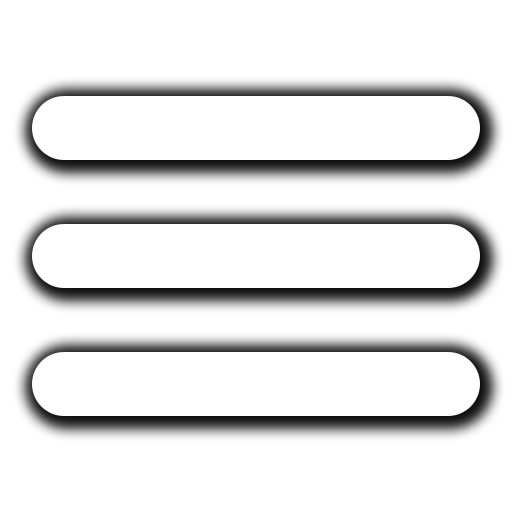
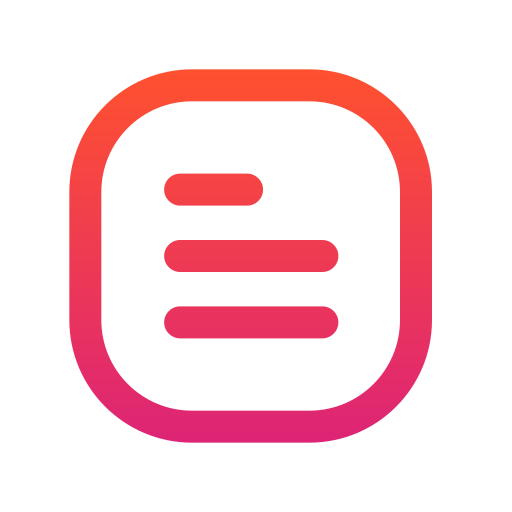
Creacion de menu hamnburguesa

diff --git a/registro.html b/registro.html
@@ -10,12 +10,17 @@
   <!-- CSS only -->
   <link href="https://cdn.jsdelivr.net/npm/bootstrap@5.2.0/dist/css/bootstrap.min.css" rel="stylesheet"
     integrity="sha384-gH2yIJqKdNHPEq0n4Mqa/HGKIhSkIHeL5AyhkYV8i59U5AR6csBvApHHNl/vI1Bx" crossorigin="anonymous" />
+  <script src="./asset/main.js"></script>
+
   <title>Registro | Ingreso </title>
 </head>
 
 <body>
   <header id="header">
     <nav id="nav-menu">
+      <button id="nav-menu-responsive-closed" >
+        <img src="./asset/img/menu-icon.png" alt="botonHamburguesa" width="100px">
+      </button>
       <a href="./index.html">
         <p>Inicio</p>
       </a>
@@ -34,6 +39,9 @@
     </nav>
   </header>
   <main id="registro">
+    <button id="nav-menu-responsive" >
+      <img src="./asset/img/menu-icon.png" alt="botonHamburguesa" width="100px">
+    </button>
     <h1 class="titulo-formulario">Registro</h1>
     <section class="row">
       <form class="col-8 position-relative formulario">
@@ -46,8 +54,8 @@
         <label for="password-registro" class="form-label">Contraseña</label>
         <input type="password" class="form-control mb-4" id="password-registro" placeholder="*******">      
         <label class="form-label">¿Le gustaría recibir novedades por correo?</label>
-        <p class="form-label"><input name="checkbox" type="checkbox" value="SI" checked> SI</p>
-        <p class="form-label"><input name="checkbox" type="checkbox" value="NO" > NO</p>
+        <p class="form-label"><input name="radio" type="radio" value="SI" checked> SI</p>
+        <p class="form-label"><input name="radio" type="radio" value="NO" > NO</p>
         
         <button class="enviar" id="boton-registro" type="submit">Enviar</button>
       </form>

diff --git a/portafolio.html b/portafolio.html
@@ -9,12 +9,17 @@
   <!-- CSS only -->
   <link href="https://cdn.jsdelivr.net/npm/bootstrap@5.2.0/dist/css/bootstrap.min.css" rel="stylesheet"
     integrity="sha384-gH2yIJqKdNHPEq0n4Mqa/HGKIhSkIHeL5AyhkYV8i59U5AR6csBvApHHNl/vI1Bx" crossorigin="anonymous" />
+  <script src="./asset/main.js"></script>
+
   <title>Proyectos | Leonardo Utreras</title>
 </head>
 
 <body>
   <header id="header">
     <nav id="nav-menu">
+      <button id="nav-menu-responsive-closed" >
+        <img src="./asset/img/menu-icon.png" alt="botonHamburguesa" width="100px">
+      </button>
       <a href="./index.html">
         <p>Inicio</p>
       </a>
@@ -32,7 +37,10 @@
       </a>
     </nav>
   </header>
-  <div id="portafolio" class="position-relative min-vh-100">
+  <main id="portafolio" class="position-relative min-vh-100">
+    <button id="nav-menu-responsive" >
+      <img src="./asset/img/menu-icon.png" alt="botonHamburguesa" width="100px">
+    </button>
     <h1 class="titulo-portafolio">Portafolio</h1>
     <div id="carrusel">
       <div id="carouselExampleCaptions" class="carousel slide" data-bs-ride="false">
@@ -62,7 +70,7 @@
         </button>
       </div>
     </div>
-  </div>
+  </main>
   <script src="https://cdn.jsdelivr.net/npm/bootstrap@5.2.0/dist/js/bootstrap.bundle.min.js"
     integrity="sha384-A3rJD856KowSb7dwlZdYEkO39Gagi7vIsF0jrRAoQmDKKtQBHUuLZ9AsSv4jD4Xa"
     crossorigin="anonymous"></script>

diff --git a/resumen.html b/resumen.html
@@ -12,11 +12,16 @@
       integrity="sha384-gH2yIJqKdNHPEq0n4Mqa/HGKIhSkIHeL5AyhkYV8i59U5AR6csBvApHHNl/vI1Bx"
       crossorigin="anonymous"
     />
+    <script src="./asset/main.js"></script>
+
     <title>Resumen | Leonardo Utreras</title>
 </head>
 <body>
   <header id="header">
     <nav id="nav-menu">
+      <button id="nav-menu-responsive-closed" >
+        <img src="./asset/img/menu-icon.png" alt="botonHamburguesa" width="100px">
+      </button>
       <a href="./index.html">
         <p>Inicio</p>
       </a>
@@ -34,7 +39,10 @@
       </a>
     </nav>
   </header>
-    <div id="resumen" class="position-relative min-vh-100">
+    <main id="resumen" class="position-relative min-vh-100">
+      <button id="nav-menu-responsive" >
+        <img src="./asset/img/menu-icon.png" alt="botonHamburguesa" width="100px">
+      </button>
         <div class="cv">
           <h1 class="titulo-resumen">Resumen</h1>
           <p class="resumen-parrafo">
@@ -99,7 +107,7 @@
             </div>
           </div>
         </div>
-    </div>
+    </main>
     <script
       src="https://cdn.jsdelivr.net/npm/bootstrap@5.2.0/dist/js/bootstrap.bundle.min.js"
       integrity="sha384-A3rJD856KowSb7dwlZdYEkO39Gagi7vIsF0jrRAoQmDKKtQBHUuLZ9AsSv4jD4Xa"

diff --git a/asset/style.css b/asset/style.css
@@ -11,6 +11,9 @@
     --white : #cfcece;
 }
 
+.inactive{
+    display: block;
+}
 
 /* Class Inicio */
 
@@ -180,6 +183,24 @@
     font-size: 25px;
 }
 
+#nav-menu-responsive{
+    position: relative;
+    background-color: transparent;
+    border: none;
+    display: none;
+    justify-content: flex-start;
+
+}
+#nav-menu-responsive-closed{
+
+    position: relative;
+    background-color: transparent;
+    border: none;
+    display: none;
+    justify-content: flex-start;
+
+}
+
 #nav-menu a{
     text-decoration: none;
 }
@@ -265,9 +286,9 @@
         0 0 150px var(--russianViolet)    
     }
     
-    20%, 24%, 55% {        
+    /* 20%, 24%, 55% {        
         text-shadow: none;
-    }    
+    }     */
   }
 
 
@@ -280,7 +301,12 @@
 
 /* Media */
 @media screen and (max-width: 820px) {
+    #nav-menu-responsive{
+        display: flex;
+    }
+   
     #header{
+        display: none;
         position: relative;
         height: auto;
         width: 100%;
@@ -301,6 +327,9 @@
     #contacto, #portafolio, #resumen, #registro{
         width: auto;
         margin: 0;
+    }
+    #carrusel{
+        width: 80%;
     }
     
 }

diff --git a/asset/main.js b/asset/main.js
@@ -1,0 +1,32 @@
+window.addEventListener("DOMContentLoaded",(ev)=>{
+    const menuAbierto = document.getElementById("nav-menu-responsive");
+    const menuCerrado = document.getElementById("nav-menu-responsive-closed");
+
+    menuAbierto.addEventListener("click", menuHamburguesa);
+    menuCerrado.addEventListener("click", menuHamburguesaCerrado);
+
+
+
+})
+
+function menuHamburguesa(){
+    const headerOpen = document.getElementById("header");
+    const botonAbierto = document.getElementById("nav-menu-responsive");
+    const botonCerrado = document.getElementById("nav-menu-responsive-closed");
+
+    headerOpen.style.display="flex";
+    botonAbierto.style.display="none";
+    botonCerrado.style.display="flex";
+    
+}
+
+function menuHamburguesaCerrado(){
+    const headerOpen = document.getElementById("header");
+    const botonAbierto = document.getElementById("nav-menu-responsive");
+    const botonCerrado = document.getElementById("nav-menu-responsive-closed");
+
+    headerOpen.style.display="none";
+    botonAbierto.style.display="flex";
+    botonCerrado.style.display="none";
+    
+}

diff --git a/index.html b/index.html
@@ -12,6 +12,7 @@
       integrity="sha384-gH2yIJqKdNHPEq0n4Mqa/HGKIhSkIHeL5AyhkYV8i59U5AR6csBvApHHNl/vI1Bx"
       crossorigin="anonymous"
     />
+    <script src="./asset/main.js"></script>
     <title>Portafolio | Leonardo Utreras</title>
   </head>
 
@@ -19,14 +20,23 @@
       
     <header id="header">
       <nav id="nav-menu">
+        <button id="nav-menu-responsive-closed" >
+          <img src="./asset/img/menu-icon.png" alt="botonHamburguesa" width="100px">
+        </button>
         <a href="./index.html"><p>Inicio</p></a>
         <a href="./registro.html"><p> Registro</p></a>
         <a href="./portafolio.html"><p>Portafolio</p></a>
         <a href="./resumen.html"><p>Resumen</p></a>
         <a href="./contacto.html"><p>Contacto</p></a>
       </nav>
-    </header>  
+      
+    </header>
+      
     <main id="inicio">
+      <button id="nav-menu-responsive" >
+        <img src="./asset/img/menu-icon.png" alt="botonHamburguesa" width="100px">
+      </button>
+      
       <section id="inicio-div">
         <p class="texto-inicio">
           Bienvenido! <br />

diff --git a/contacto.html b/contacto.html
@@ -10,12 +10,17 @@
   <!-- CSS only -->
   <link href="https://cdn.jsdelivr.net/npm/bootstrap@5.2.0/dist/css/bootstrap.min.css" rel="stylesheet"
     integrity="sha384-gH2yIJqKdNHPEq0n4Mqa/HGKIhSkIHeL5AyhkYV8i59U5AR6csBvApHHNl/vI1Bx" crossorigin="anonymous" />
+  <script src="./asset/main.js"></script>
+
   <title>Contacto | Leonardo Utreras</title>
 </head>
 
 <body>
   <header id="header">
     <nav id="nav-menu">
+      <button id="nav-menu-responsive-closed" >
+        <img src="./asset/img/menu-icon.png" alt="botonHamburguesa" width="100px">
+      </button>
       <a href="./index.html">
         <p>Inicio</p>
       </a>
@@ -34,6 +39,9 @@
     </nav>
   </header>
   <main id="contacto" class="position-relative">
+    <button id="nav-menu-responsive" >
+      <img src="./asset/img/menu-icon.png" alt="botonHamburguesa" width="100px">
+    </button>
     <h1 class="titulo-formulario">Contacto</h1>
     <section class="row">
       <form id="form-contacto" class="col-8 position-relative formulario">

diff --git a/asset/registro.js b/asset/registro.js
@@ -10,7 +10,7 @@ window.addEventListener('DOMContentLoaded', (ev)=>{
             let telefono = document.getElementById("telefono-registro").value;
             let correo = document.getElementById("correo-registro").value;
             let password = document.getElementById("password-registro").value;
-            let novedades = getCheckbox();
+            let novedades = getRadio();
             let suscriptor = {
                 nombre,
                 telefono,
@@ -39,8 +39,8 @@ async function guardarSuscriptor(suscriptor){
     const data = await res.json()
 }
 
-function getCheckbox() {
-    let checkSeleccionado = document.querySelector("input[name='checkbox']:checked");
+function getRadio() {
+    let checkSeleccionado = document.querySelector("input[name='radio']:checked");
     if ( checkSeleccionado == null ) {
         throw new Error("Debe seleccionar una opcion");
     }
